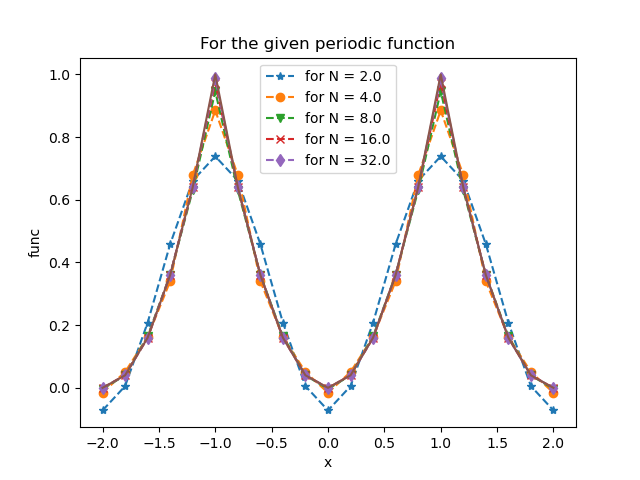
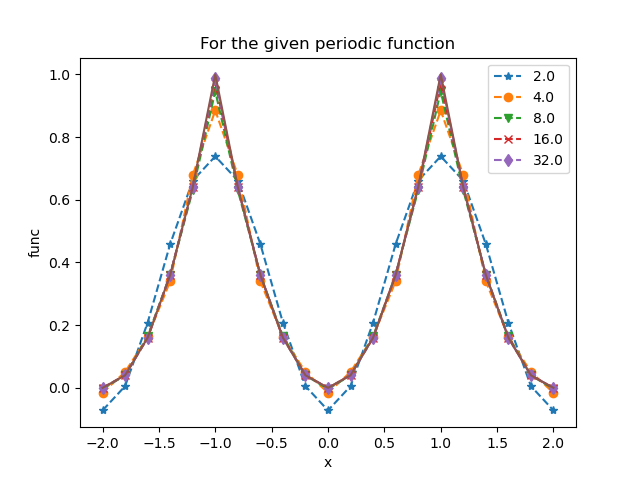
new 6

Changed region(s): [[0.4062, 0.125, 0.625, 0.3438], [0.7812, 0.125, 0.9062, 0.3438]]

diff --git a/final.py b/final.py
@@ -1,4 +1,4 @@
-# -*- coding: future_fstrings -*-
+
 import numpy as np
 import matplotlib.pyplot as plt
 from scipy import integrate
@@ -81,7 +81,7 @@ def func_plot(x0,x1,step,N_f,Func_an):
         
     fig,ax = plt.subplots()
     for i in range(len(N)):
-        ax.plot(x,sol[i],f'--{ls[i]}',label = f'for N = {N[i]}')
+        ax.plot(x,sol[i],ls = '--',marker = ls[i],label = N[i])
     ax.plot(x,Func_an(x)) 
     ax.legend()
     ax.set_title('For the given periodic function')
